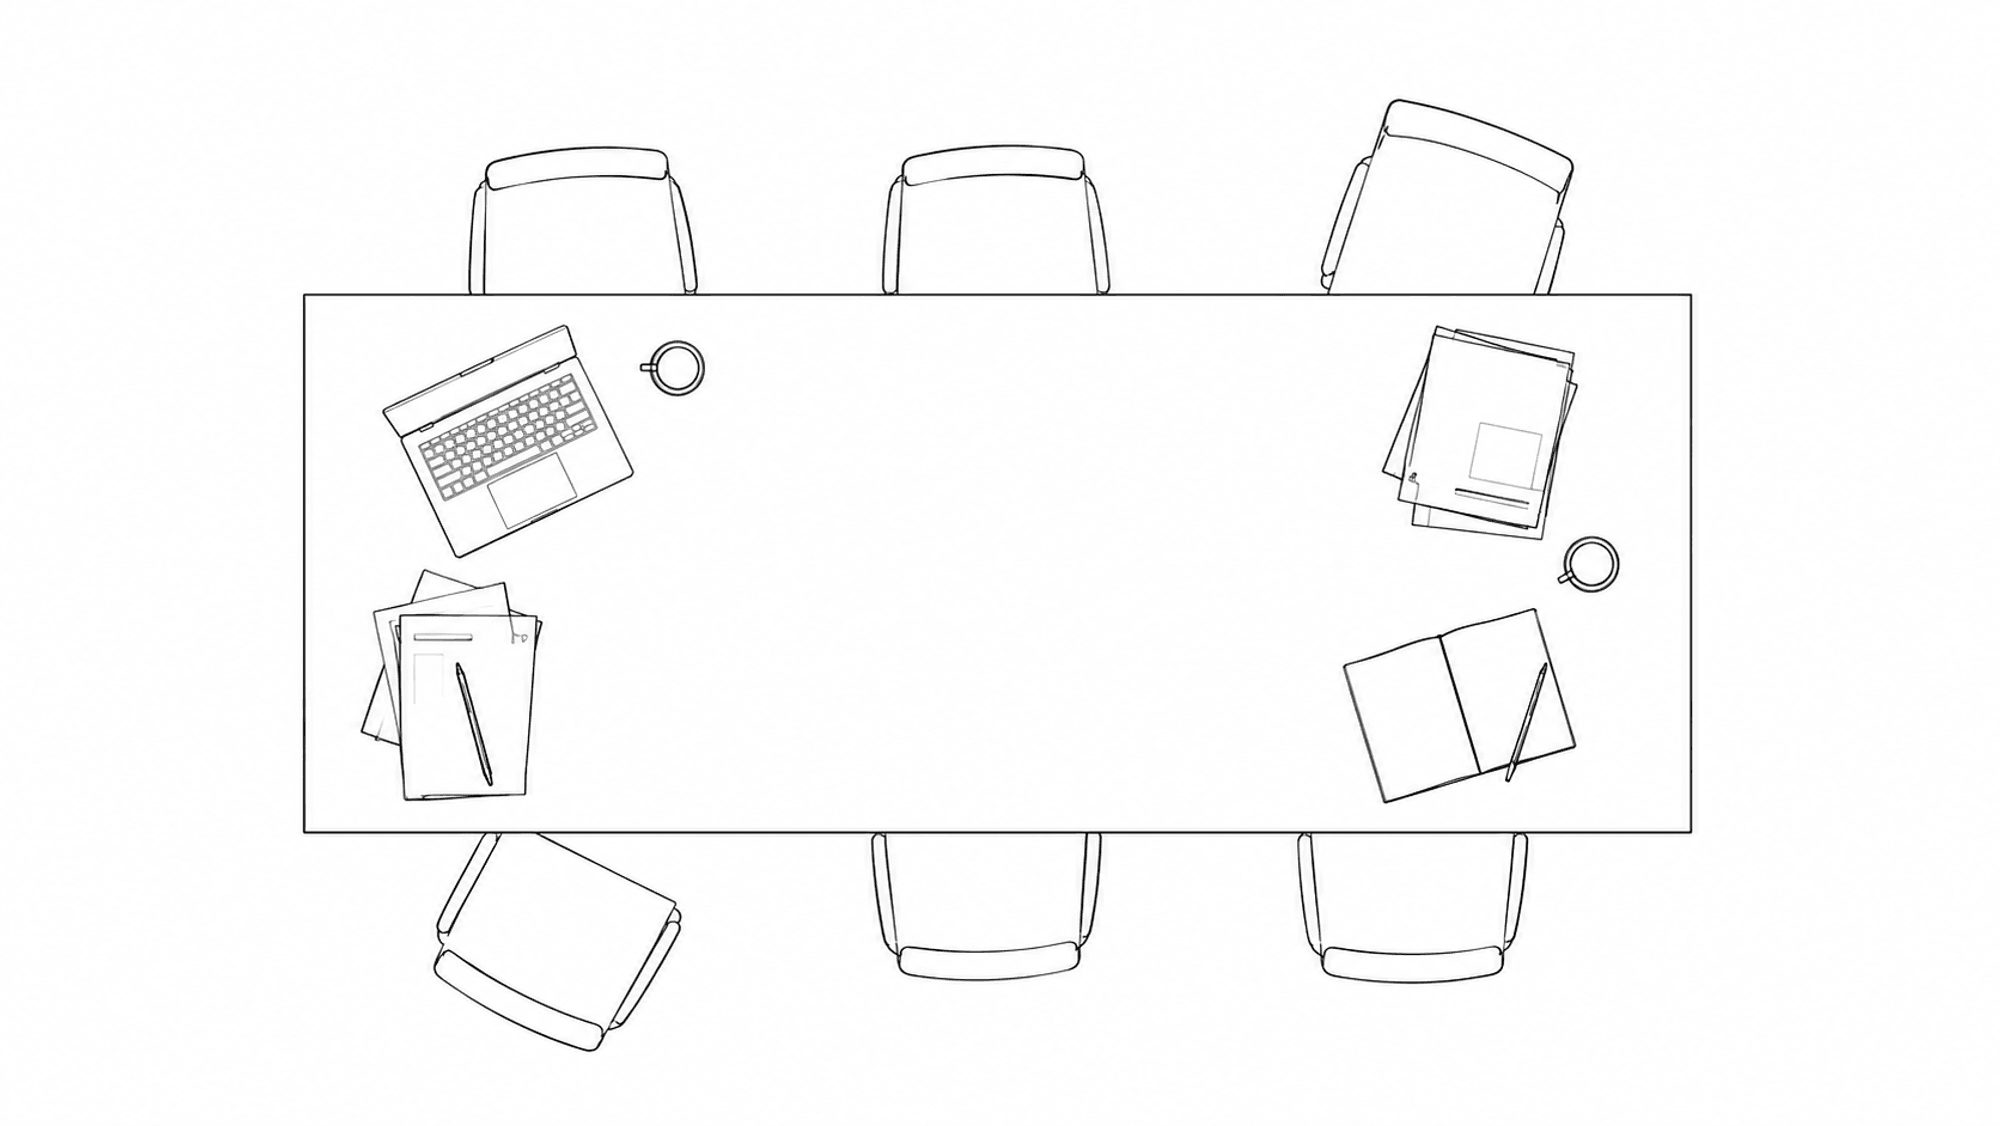
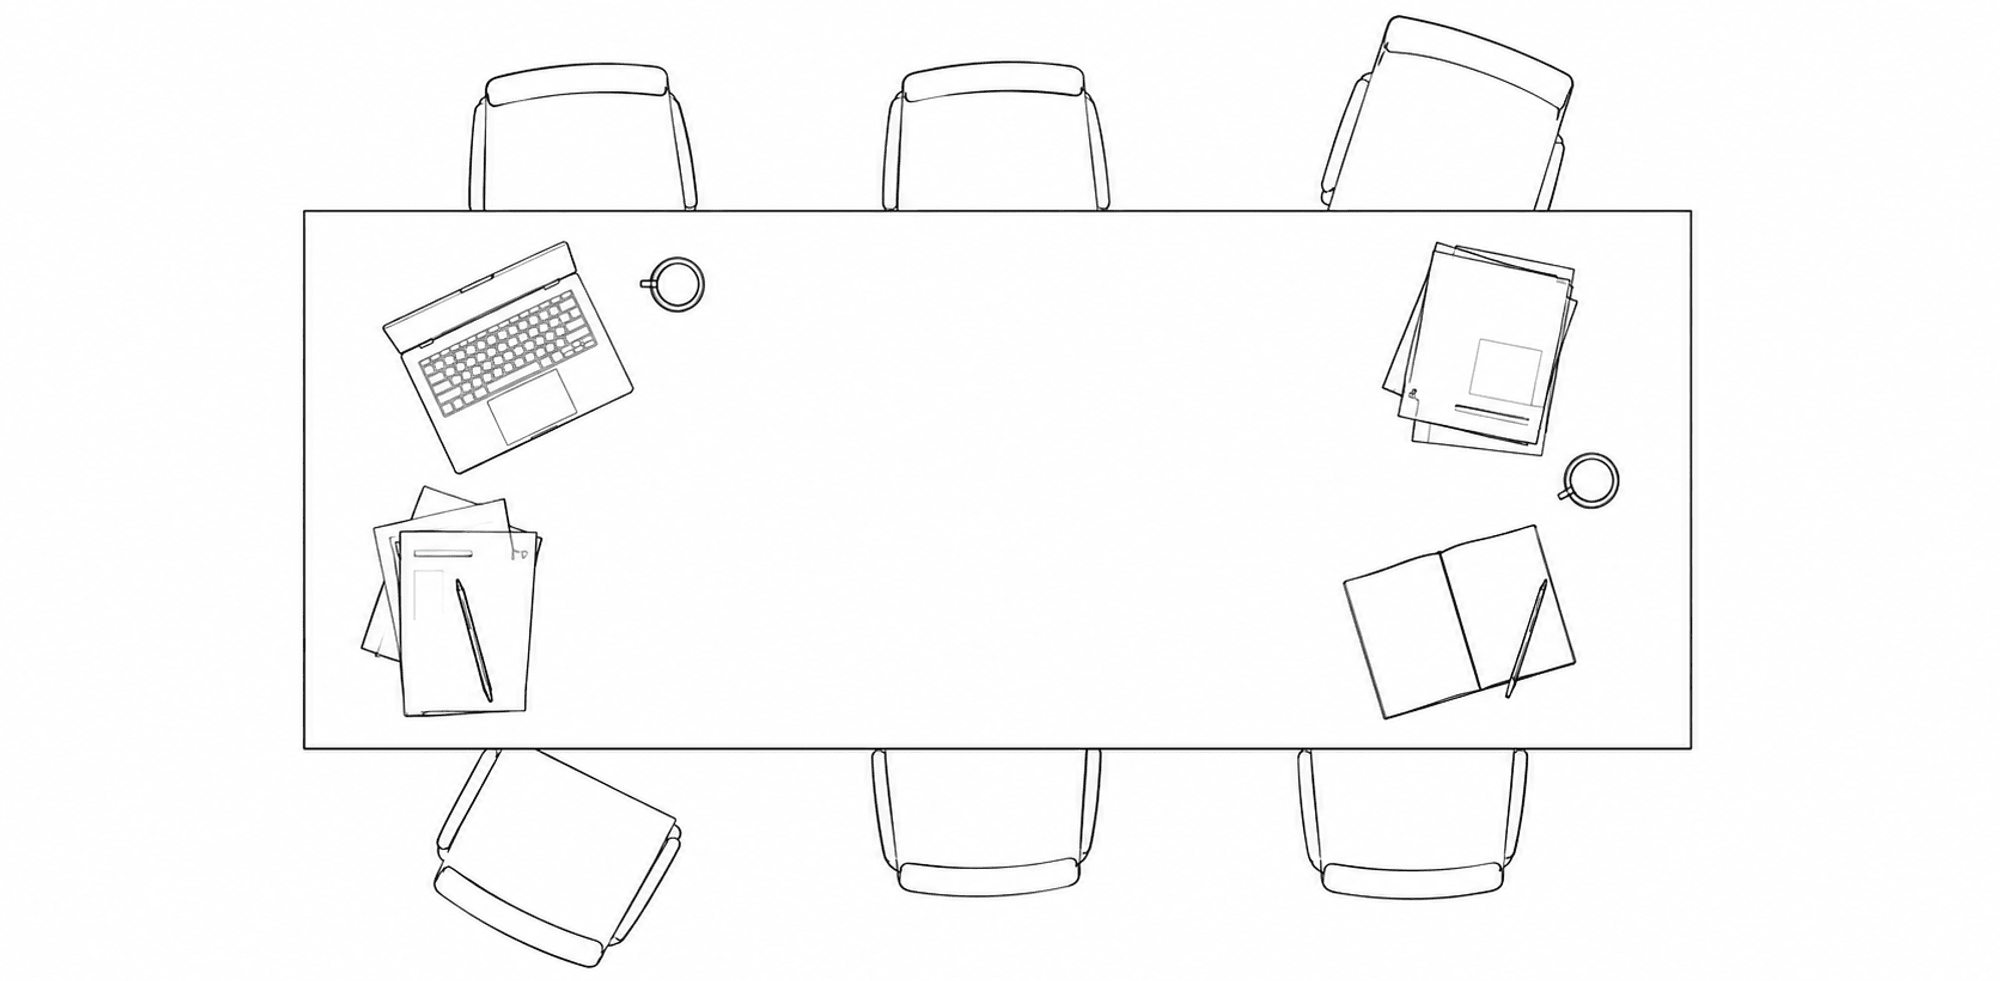
Persones: menys blanc al voltant de la taula; la secció negra passa a Mètode
- La taula (desktop) es retalla per dalt i per baix i es redueixen els
  espais: més a prop dels verbs i de 'El projecte comença…'. Les peces
  es recol·loquen sobre el tauler. Mòbil sense canvis.
- La cita 'L'estratègia no és res més que…' amb Encàrrec / Subjecte /
  Sentit / Resultat surt de Persones i tanca la pàgina de Mètode
  (ca/es/en).

diff --git a/src/app/[locale]/persones/page.tsx b/src/app/[locale]/persones/page.tsx
@@ -7,8 +7,6 @@ import { PersonesClosing, PersonesOpening, PersonesTable, PersonesVerbs } from "
 
 export const dynamic = "force-static";
 
-const PILLARS = ["Encàrrec", "Subjecte", "Sentit", "Resultat"];
-
 const COLLABORATORS = [
   { name: "AFAC · Amador Ferrer / Víctor Ferrer", file: "afac.jpg" },
   { name: "Cobrusi Arquitectes", file: "cobrusi.png" },
@@ -136,29 +134,6 @@ export default async function PersonesPage({
         </div>
       </section>
 
-      {/* ── Manera de treballar ───────────────────────────────────────── */}
-      <section className="pu-dark-section">
-        <blockquote className="pu-dark-quote">
-          &ldquo;L&apos;estratègia no és res més que traçar el camí a través de quatre paraules:
-          encàrrec, subjecte, sentit i resultat. Una metodologia honesta i responsable amb el territori.&rdquo;
-        </blockquote>
-
-        {/* 4 pillars */}
-        <div className="pu-pillars-grid">
-          {PILLARS.map((word, i) => (
-            <div key={word} className={`pu-pillar-cell${i < 3 ? " pu-pillar-cell--border" : ""}`}>
-              <h3 className="pu-pillar-word">{word}</h3>
-            </div>
-          ))}
-        </div>
-
-        <p className="pu-dark-body">
-          Treballem arreu del territori català amb ajuntaments i agents públics i privats.
-          Cada encàrrec és una oportunitat de descobrir un nou municipi i deixar-hi un relat
-          holístic i potent per crear noves oportunitats.
-        </p>
-      </section>
-
       {/* ── Clients — fons blanc, carrusel quiet fins hover ──────────── */}
       <section className="pu-clients-section">
         <p className="pu-clients-label">Han confiat en nosaltres</p>
@@ -191,57 +166,6 @@ export default async function PersonesPage({
       <style>{`
         .pu-persones-head { padding: clamp(24px, 3.5vh, 40px) var(--margin-page) 0; }
         @media (max-width: 900px) { .pu-persones-head { padding-top: clamp(36px, 5vh, 64px); } }
-
-        /* ── Secció fosca ── */
-        .pu-dark-section {
-          border-top: 1px solid #1a1a1a;
-          background: var(--color-fg);
-          color: var(--color-bg);
-          padding: clamp(64px,9vh,112px) var(--margin-page);
-          -webkit-font-smoothing: antialiased;
-        }
-        .pu-dark-quote {
-          font-family: var(--font-sans);
-          font-size: clamp(20px,2.6vw,38px);
-          font-weight: 700;
-          letter-spacing: -0.035em;
-          line-height: 1.1;
-          color: #fff;
-          max-width: 820px;
-          margin: 0 0 clamp(48px,7vh,80px);
-        }
-        .pu-pillars-grid {
-          display: grid;
-          grid-template-columns: repeat(4, 1fr);
-          border-top: 1px solid rgba(255,255,255,0.15);
-          margin-bottom: clamp(40px,6vh,72px);
-        }
-        .pu-pillar-cell {
-          padding: clamp(20px,3vh,32px) clamp(16px,2vw,32px) clamp(20px,3vh,32px) 0;
-        }
-        .pu-pillar-cell--border {
-          border-right: 1px solid rgba(255,255,255,0.15);
-          margin-right: 0;
-        }
-        .pu-pillar-cell:not(:first-child) {
-          padding-left: clamp(16px,2vw,32px);
-        }
-        .pu-pillar-word {
-          font-family: var(--font-sans);
-          font-size: clamp(18px,2vw,28px);
-          font-weight: 700;
-          letter-spacing: -0.03em;
-          color: #fff;
-          margin: 0;
-        }
-        .pu-dark-body {
-          font-family: var(--font-sans);
-          font-size: 14px;
-          line-height: 1.7;
-          color: rgba(255,255,255,0.55);
-          margin: 0;
-          max-width: 480px;
-        }
 
         /* ── Clients marquee — blanc, quiet fins hover ── */
         .pu-clients-section {
@@ -362,19 +286,6 @@ export default async function PersonesPage({
 
         /* ── Mòbil ── */
         @media (max-width: 768px) {
-          .pu-pillars-grid {
-            grid-template-columns: repeat(2, 1fr);
-          }
-          .pu-pillar-cell:nth-child(2) {
-            border-right: none !important;
-          }
-          .pu-pillar-cell:nth-child(3) {
-            border-top: 1px solid rgba(255,255,255,0.15);
-            border-right: 1px solid rgba(255,255,255,0.15);
-          }
-          .pu-pillar-cell:nth-child(4) {
-            border-top: 1px solid rgba(255,255,255,0.15);
-          }
           .pu-collab-strip { gap: 24px; }
           .pu-cta-section { flex-direction: column; align-items: flex-start; }
           .pu-client-img { max-height: 28px; max-width: 80px; }

diff --git a/src/components/metode/MetodeDarkSection.tsx b/src/components/metode/MetodeDarkSection.tsx
@@ -1,0 +1,107 @@
+/* "Manera de treballar": cita + quatre paraules sobre fons negre (final de Mètode) */
+
+type Loc = "ca" | "es" | "en";
+
+const COPY: Record<Loc, { quote: string; pillars: string[]; body: string }> = {
+  ca: {
+    quote: "L’estratègia no és res més que traçar el camí a través de quatre paraules: encàrrec, subjecte, sentit i resultat. Una metodologia honesta i responsable amb el territori.",
+    pillars: ["Encàrrec", "Subjecte", "Sentit", "Resultat"],
+    body: "Treballem arreu del territori català amb ajuntaments i agents públics i privats. Cada encàrrec és una oportunitat de descobrir un nou municipi i deixar-hi un relat holístic i potent per crear noves oportunitats.",
+  },
+  es: {
+    quote: "La estrategia no es más que trazar el camino a través de cuatro palabras: encargo, sujeto, sentido y resultado. Una metodología honesta y responsable con el territorio.",
+    pillars: ["Encargo", "Sujeto", "Sentido", "Resultado"],
+    body: "Trabajamos en todo el territorio catalán con ayuntamientos y agentes públicos y privados. Cada encargo es una oportunidad de descubrir un nuevo municipio y dejar en él un relato holístico y potente para crear nuevas oportunidades.",
+  },
+  en: {
+    quote: "Strategy is nothing more than tracing the path through four words: commission, subject, meaning and result. An honest methodology, responsible to the territory.",
+    pillars: ["Commission", "Subject", "Meaning", "Result"],
+    body: "We work throughout Catalonia with local councils and public and private stakeholders. Every commission is an opportunity to discover a new municipality and leave behind a holistic, powerful narrative that opens up new opportunities.",
+  },
+};
+
+export default function MetodeDarkSection({ locale }: { locale: string }) {
+  const t = COPY[locale === "es" || locale === "en" ? locale : "ca"];
+  return (
+    <section className="pu-dark-section">
+      <blockquote className="pu-dark-quote">&ldquo;{t.quote}&rdquo;</blockquote>
+
+      <div className="pu-pillars-grid">
+        {t.pillars.map((word, i) => (
+          <div key={word} className={`pu-pillar-cell${i < 3 ? " pu-pillar-cell--border" : ""}`}>
+            <h3 className="pu-pillar-word">{word}</h3>
+          </div>
+        ))}
+      </div>
+
+      <p className="pu-dark-body">{t.body}</p>
+
+      <style>{`
+        .pu-dark-section {
+          border-top: 1px solid #1a1a1a;
+          background: var(--color-fg);
+          color: var(--color-bg);
+          padding: clamp(64px,9vh,112px) var(--margin-page);
+          -webkit-font-smoothing: antialiased;
+        }
+        .pu-dark-quote {
+          font-family: var(--font-sans);
+          font-size: clamp(20px,2.6vw,38px);
+          font-weight: 700;
+          letter-spacing: -0.035em;
+          line-height: 1.1;
+          color: #fff;
+          max-width: 820px;
+          margin: 0 0 clamp(48px,7vh,80px);
+        }
+        .pu-pillars-grid {
+          display: grid;
+          grid-template-columns: repeat(4, 1fr);
+          border-top: 1px solid rgba(255,255,255,0.15);
+          margin-bottom: clamp(40px,6vh,72px);
+        }
+        .pu-pillar-cell {
+          padding: clamp(20px,3vh,32px) clamp(16px,2vw,32px) clamp(20px,3vh,32px) 0;
+        }
+        .pu-pillar-cell--border {
+          border-right: 1px solid rgba(255,255,255,0.15);
+          margin-right: 0;
+        }
+        .pu-pillar-cell:not(:first-child) {
+          padding-left: clamp(16px,2vw,32px);
+        }
+        .pu-pillar-word {
+          font-family: var(--font-sans);
+          font-size: clamp(18px,2vw,28px);
+          font-weight: 700;
+          letter-spacing: -0.03em;
+          color: #fff;
+          margin: 0;
+        }
+        .pu-dark-body {
+          font-family: var(--font-sans);
+          font-size: 14px;
+          line-height: 1.7;
+          color: rgba(255,255,255,0.55);
+          margin: 0;
+          max-width: 480px;
+        }
+        @media (max-width: 768px) {
+          .pu-pillars-grid {
+            grid-template-columns: repeat(2, 1fr);
+          }
+          .pu-pillar-cell:nth-child(2) {
+            border-right: none !important;
+          }
+          .pu-pillar-cell:nth-child(3) {
+            border-top: 1px solid rgba(255,255,255,0.15);
+            border-right: 1px solid rgba(255,255,255,0.15);
+          }
+          .pu-pillar-cell:nth-child(4) {
+            border-top: 1px solid rgba(255,255,255,0.15);
+          }
+        }
+      `}</style>
+    </section>
+  );
+}

diff --git a/src/components/team/PersonesStory.tsx b/src/components/team/PersonesStory.tsx
@@ -127,7 +127,7 @@ export function PersonesVerbs({ locale }: { locale: string }) {
       </ul>
       <p className="pu-pv-ofici">{t.ofici}</p>
       <style>{INK_CSS + `
-        .pu-pv { padding: clamp(72px, 12vh, 140px) var(--margin-page) clamp(88px, 14vh, 160px); font-family: var(--font-sans); }
+        .pu-pv { padding: clamp(72px, 12vh, 140px) var(--margin-page) clamp(32px, 5vh, 64px); font-family: var(--font-sans); }
         .pu-pv-verbs {
           list-style: none; margin: 0; padding: 0;
           display: grid;
@@ -180,21 +180,21 @@ type Piece = {
 };
 
 const PIECES: Piece[] = [
-  { key: "planol",      img: "/persones-taula/planol.jpg",      d: [38, 32, 11, -1.8],  m: [8, 18.5, 40, -1.6] },
-  { key: "norma",       img: "/persones-taula/norma.jpg",       d: [66, 31.5, 6.5, 1.6], m: [10, 35.5, 26, 1.8] },
-  { key: "dades",       img: "/persones-taula/dades.jpg",       d: [51.5, 32.5, 12, 1], m: [42, 39.5, 48, -1] },
-  { key: "datum",                                               d: [74.5, 34, 8.5, 2.2], m: [60, 50.5, 32, 2.2] },
-  { key: "carrer",      img: "/persones-taula/carrer.jpg",      d: [17, 54, 17, 1.2],   m: [8, 58.5, 84, 1] },
-  { key: "croquis",     img: "/persones-taula/croquis.jpg",     d: [49.5, 53, 6.5, -2.4], m: [48, 69, 22, -2.4] },
-  { key: "cartografia", img: "/persones-taula/cartografia.jpg", d: [37.5, 54.5, 9, -1], m: [8, 70.5, 36, 1] },
-  { key: "maqueta",     img: "/persones-taula/maqueta.jpg",     d: [59, 56.5, 7, 1.6],  m: [74, 71, 18, -1.6] },
+  { key: "planol",      img: "/persones-taula/planol.jpg",      d: [38, 28.2, 11, -1.8],  m: [8, 18.5, 40, -1.6] },
+  { key: "norma",       img: "/persones-taula/norma.jpg",       d: [66, 27.6, 6.5, 1.6], m: [10, 35.5, 26, 1.8] },
+  { key: "dades",       img: "/persones-taula/dades.jpg",       d: [51.5, 28.8, 12, 1], m: [42, 39.5, 48, -1] },
+  { key: "datum",                                               d: [74.5, 30.5, 8.5, 2.2], m: [60, 50.5, 32, 2.2] },
+  { key: "carrer",      img: "/persones-taula/carrer.jpg",      d: [17, 53.4, 17, 1.2],   m: [8, 58.5, 84, 1] },
+  { key: "croquis",     img: "/persones-taula/croquis.jpg",     d: [49.5, 52.3, 6.5, -2.4], m: [48, 69, 22, -2.4] },
+  { key: "cartografia", img: "/persones-taula/cartografia.jpg", d: [37.5, 54, 9, -1], m: [8, 70.5, 36, 1] },
+  { key: "maqueta",     img: "/persones-taula/maqueta.jpg",     d: [59, 56.3, 7, 1.6],  m: [74, 71, 18, -1.6] },
 ];
 
 const WORDS: { key: "dades" | "planol" | "norma" | "carrer"; d: [number, number]; m: [number, number] }[] = [
-  { key: "planol", d: [38, 28.4],   m: [8, 16] },
-  { key: "dades",  d: [51.5, 28.4], m: [42, 37] },
-  { key: "norma",  d: [66, 28.4],   m: [8, 33] },
-  { key: "carrer", d: [17, 66.5],   m: [8, 66.6] },
+  { key: "planol", d: [38, 24.1],   m: [8, 16] },
+  { key: "dades",  d: [51.5, 24.1], m: [42, 37] },
+  { key: "norma",  d: [66, 24.1],   m: [8, 33] },
+  { key: "carrer", d: [17, 67.8],   m: [8, 66.6] },
 ];
 
 export function PersonesTable({ locale }: { locale: string }) {
@@ -269,12 +269,12 @@ export function PersonesTable({ locale }: { locale: string }) {
       <p className="pu-pt-close">{t.close}</p>
 
       <style>{`
-        .pu-pt { padding: clamp(32px, 5vh, 64px) 0 0; font-family: var(--font-sans); }
+        .pu-pt { padding: 0; font-family: var(--font-sans); }
         /* La taula dibuixada fa de fons: a tota l'amplada, molt tènue, inert */
         .pu-pt-table {
           position: relative;
           width: 100%;
-          aspect-ratio: 1672 / 941;
+          aspect-ratio: 1672 / 820;
           margin: 0 auto;
           overflow: hidden;
           user-select: none;
@@ -322,7 +322,7 @@ export function PersonesTable({ locale }: { locale: string }) {
         }
         .pu-pt-close {
           margin: 0;
-          padding: clamp(48px, 8vh, 96px) var(--margin-page) 0;
+          padding: clamp(12px, 2vh, 28px) var(--margin-page) 0;
           max-width: 18em;
           font-size: clamp(24px, 2.6vw, 42px);
           font-weight: 700;
@@ -362,7 +362,7 @@ export function PersonesClosing({ locale }: { locale: string }) {
           grid-template-columns: repeat(12, minmax(0, 1fr));
           column-gap: clamp(16px, 2vw, 32px);
           row-gap: clamp(28px, 6vh, 72px);
-          padding: clamp(120px, 20vh, 240px) var(--margin-page) clamp(120px, 20vh, 240px);
+          padding: clamp(72px, 12vh, 140px) var(--margin-page) clamp(120px, 20vh, 240px);
           font-family: var(--font-sans);
         }
         .pu-pc p {

diff --git a/src/components/metode/MetodePage.tsx b/src/components/metode/MetodePage.tsx
@@ -1,6 +1,7 @@
 "use client";
 
 import { useEffect, useRef, useState } from "react";
+import MetodeDarkSection from "./MetodeDarkSection";
 
 /* ─── Translations ──────────────────────────────────────────────────────────── */
 
@@ -785,6 +786,9 @@ export default function MetodePage({ locale = "ca" }: { locale?: string }) {
           </div>
         </div>
       </section>
+
+      {/* ── Manera de treballar ── */}
+      <MetodeDarkSection locale={lang} />
     </>
   );
 }
